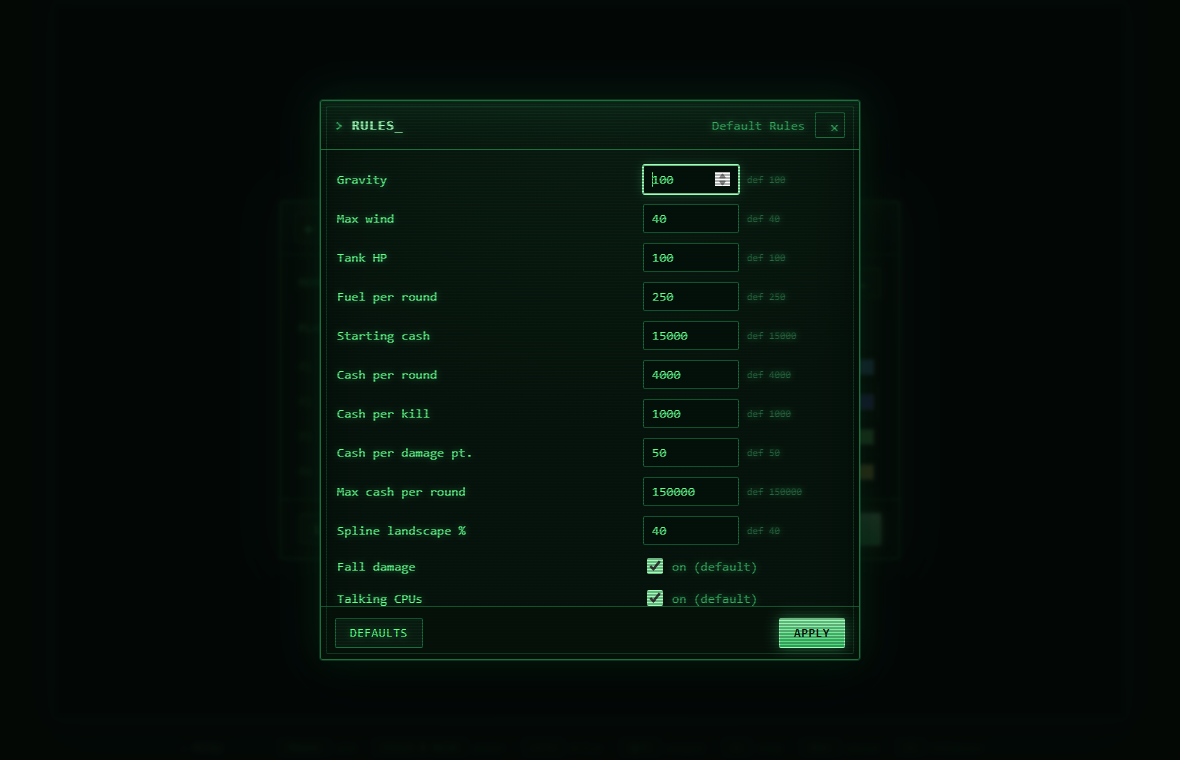
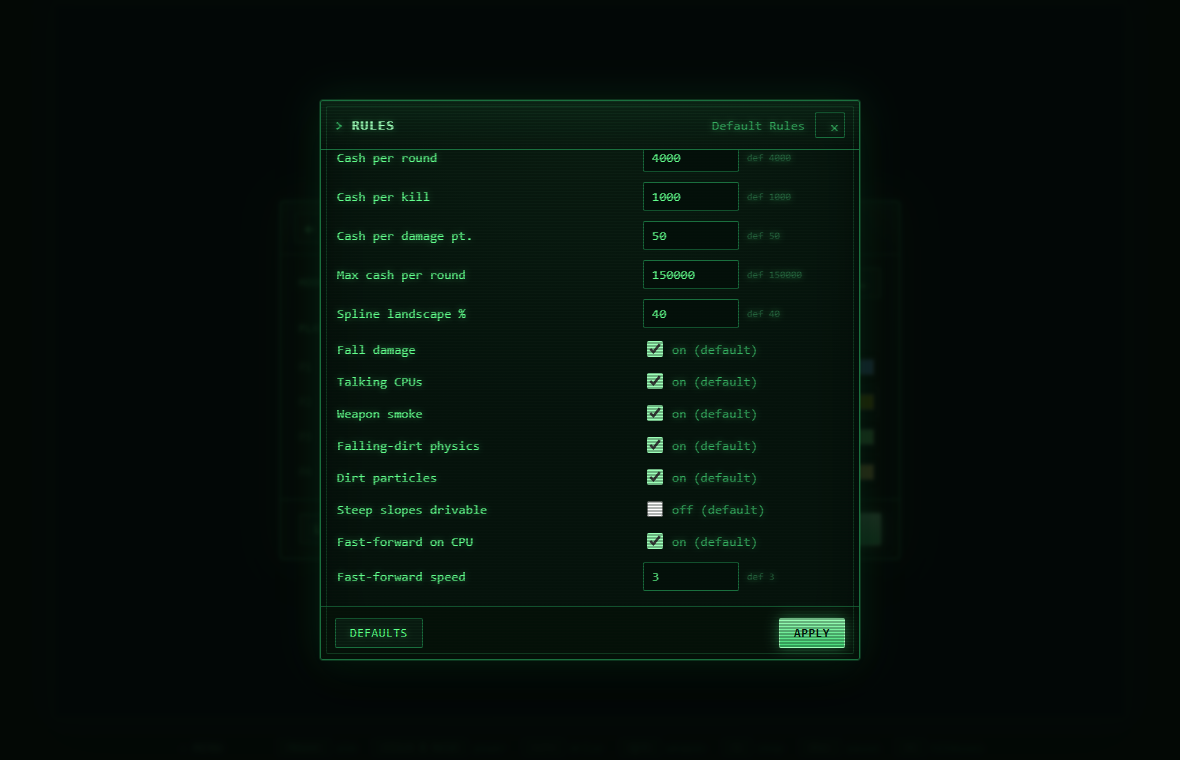
Make CPU fast-forward configurable in the rules
Adds a 'Fast-forward speed' rule (1-8, default 3) alongside the existing
'Fast-forward on CPU' toggle, so you can set whether AND how fast CPU turns are
fast-forwarded. Speed = total ticks per frame during fast-forward (still gated
to projectile flight / terrain settling and paused while a speech bubble shows).
Localized in all eight languages.

Changed region(s): [[0.5492, 0.1816, 0.6712, 0.8171], [0.2746, 0.1816, 0.4271, 0.8171], [0.6407, 0.6355, 0.6712, 0.6658]]

diff --git a/src/main.js b/src/main.js
@@ -459,8 +459,11 @@ function tick() {
     const cur = match.currentTank();
     const ffState = match.state === "firing" || match.state === "animating";
     const ffOk = cur && cur.controller > 0 && ffState && !match.anyQuoteActive();
+    // Speed = total ticks per frame during FF; "extra" are the additional ticks
+    // beyond the normal one. Configurable via the fastForwardSpeed rule.
+    const extra = Math.max(0, (match.rules.fastForwardSpeed ?? 3) - 1);
     if (ffOk) {
-      for (let i = 0; i < 2
+      for (let i = 0; i < extra
         && (match.state === "firing" || match.state === "animating")
         && !match.anyQuoteActive(); i++) {
         match.tick();

diff --git a/src/i18n/ru.js b/src/i18n/ru.js
@@ -93,6 +93,7 @@ export default {
     "rule.dirtClods": "Частицы земли",
     "rule.steepDriving": "Езда по крутым склонам",
     "rule.fastForward": "Ускорение хода ИИ",
+    "rule.fastForwardSpeed": "Скорость ускорения",
     "weaponEditor.heading": "Редактор оружия",
     "weaponEditor.newWeapon": "+ Новое оружие",
     "weaponEditor.delete": "Удалить",

diff --git a/src/ui/rule_editor.js b/src/ui/rule_editor.js
@@ -22,6 +22,7 @@ const FIELDS = [
   { key: "dirtClods",               label: "Erd-Partikel",              type: "bool" },
   { key: "steepDriving",            label: "Steile Hänge fahrbar",      type: "bool" },
   { key: "fastForward",             label: "Fast-Forward bei CPU",      type: "bool" },
+  { key: "fastForwardSpeed",        label: "Fast-Forward Speed",        min: 1, max: 8, step: 1, type: "int" },
 ];
 
 export class RuleEditor {

diff --git a/src/game/data.js b/src/game/data.js
@@ -60,6 +60,8 @@ export class GameData {
     // ergänzen, damit Editor + Engine konsistent sind.
     for (const rs of this.rules) {
       if (rs.fallDamage === undefined) rs.fallDamage = true;
+      if (rs.fastForward === undefined) rs.fastForward = true;
+      if (rs.fastForwardSpeed === undefined) rs.fastForwardSpeed = 3;
     }
     this._addAllWeaponsRuleSet();
     this._mergeDefaults();

diff --git a/src/i18n/pt.js b/src/i18n/pt.js
@@ -93,6 +93,7 @@ export default {
     "rule.dirtClods": "Partículas de terra",
     "rule.steepDriving": "Encostas íngremes transitáveis",
     "rule.fastForward": "Avanço rápido nos CPU",
+    "rule.fastForwardSpeed": "Velocidade do avanço rápido",
     "weaponEditor.heading": "Editor de Armas",
     "weaponEditor.newWeapon": "+ Nova arma",
     "weaponEditor.delete": "Eliminar",

diff --git a/src/i18n/fr.js b/src/i18n/fr.js
@@ -93,6 +93,7 @@ export default {
     "rule.dirtClods": "Particules de terre",
     "rule.steepDriving": "Pentes raides franchissables",
     "rule.fastForward": "Accéléré pour l'IA",
+    "rule.fastForwardSpeed": "Vitesse de l'accéléré",
     "weaponEditor.heading": "Éditeur d'armes",
     "weaponEditor.newWeapon": "+ Nouvelle arme",
     "weaponEditor.delete": "Supprimer",

diff --git a/src/i18n/de.js b/src/i18n/de.js
@@ -93,6 +93,7 @@ export default {
     "rule.dirtClods": "Erdpartikel",
     "rule.steepDriving": "Steile Hänge befahrbar",
     "rule.fastForward": "Schnellvorlauf bei CPU",
+    "rule.fastForwardSpeed": "Schnellvorlauf-Tempo",
     "weaponEditor.heading": "Waffeneditor",
     "weaponEditor.newWeapon": "+ Neue Waffe",
     "weaponEditor.delete": "Löschen",

diff --git a/src/i18n/es.js b/src/i18n/es.js
@@ -108,6 +108,7 @@ export default {
     "rule.dirtClods": "Partículas de tierra",
     "rule.steepDriving": "Pendientes empinadas transitables",
     "rule.fastForward": "Avance rápido con la CPU",
+    "rule.fastForwardSpeed": "Velocidad de avance rápido",
 
     // ---- weapon editor ----
     "weaponEditor.heading": "Editor de armas",

diff --git a/src/i18n/it.js b/src/i18n/it.js
@@ -108,6 +108,7 @@ export default {
     "rule.dirtClods": "Particelle di terra",
     "rule.steepDriving": "Pendii ripidi percorribili",
     "rule.fastForward": "Avanzamento rapido per CPU",
+    "rule.fastForwardSpeed": "Velocità avanzamento rapido",
 
     // ---- weapon editor ----
     "weaponEditor.heading": "Editor delle armi",

diff --git a/src/i18n/tr.js b/src/i18n/tr.js
@@ -108,6 +108,7 @@ export default {
     "rule.dirtClods": "Toprak parçacıkları",
     "rule.steepDriving": "Dik yamaçlar sürülebilir",
     "rule.fastForward": "CPU'da hızlı ileri",
+    "rule.fastForwardSpeed": "Hızlı ileri hızı",
 
     // ---- weapon editor ----
     "weaponEditor.heading": "Silah Düzenleyici",

diff --git a/src/i18n/en.js b/src/i18n/en.js
@@ -109,6 +109,7 @@ export default {
     "rule.dirtClods": "Dirt particles",
     "rule.steepDriving": "Steep slopes drivable",
     "rule.fastForward": "Fast-forward on CPU",
+    "rule.fastForwardSpeed": "Fast-forward speed",
 
     // ---- weapon editor ----
     "weaponEditor.heading": "Weapon Editor",
